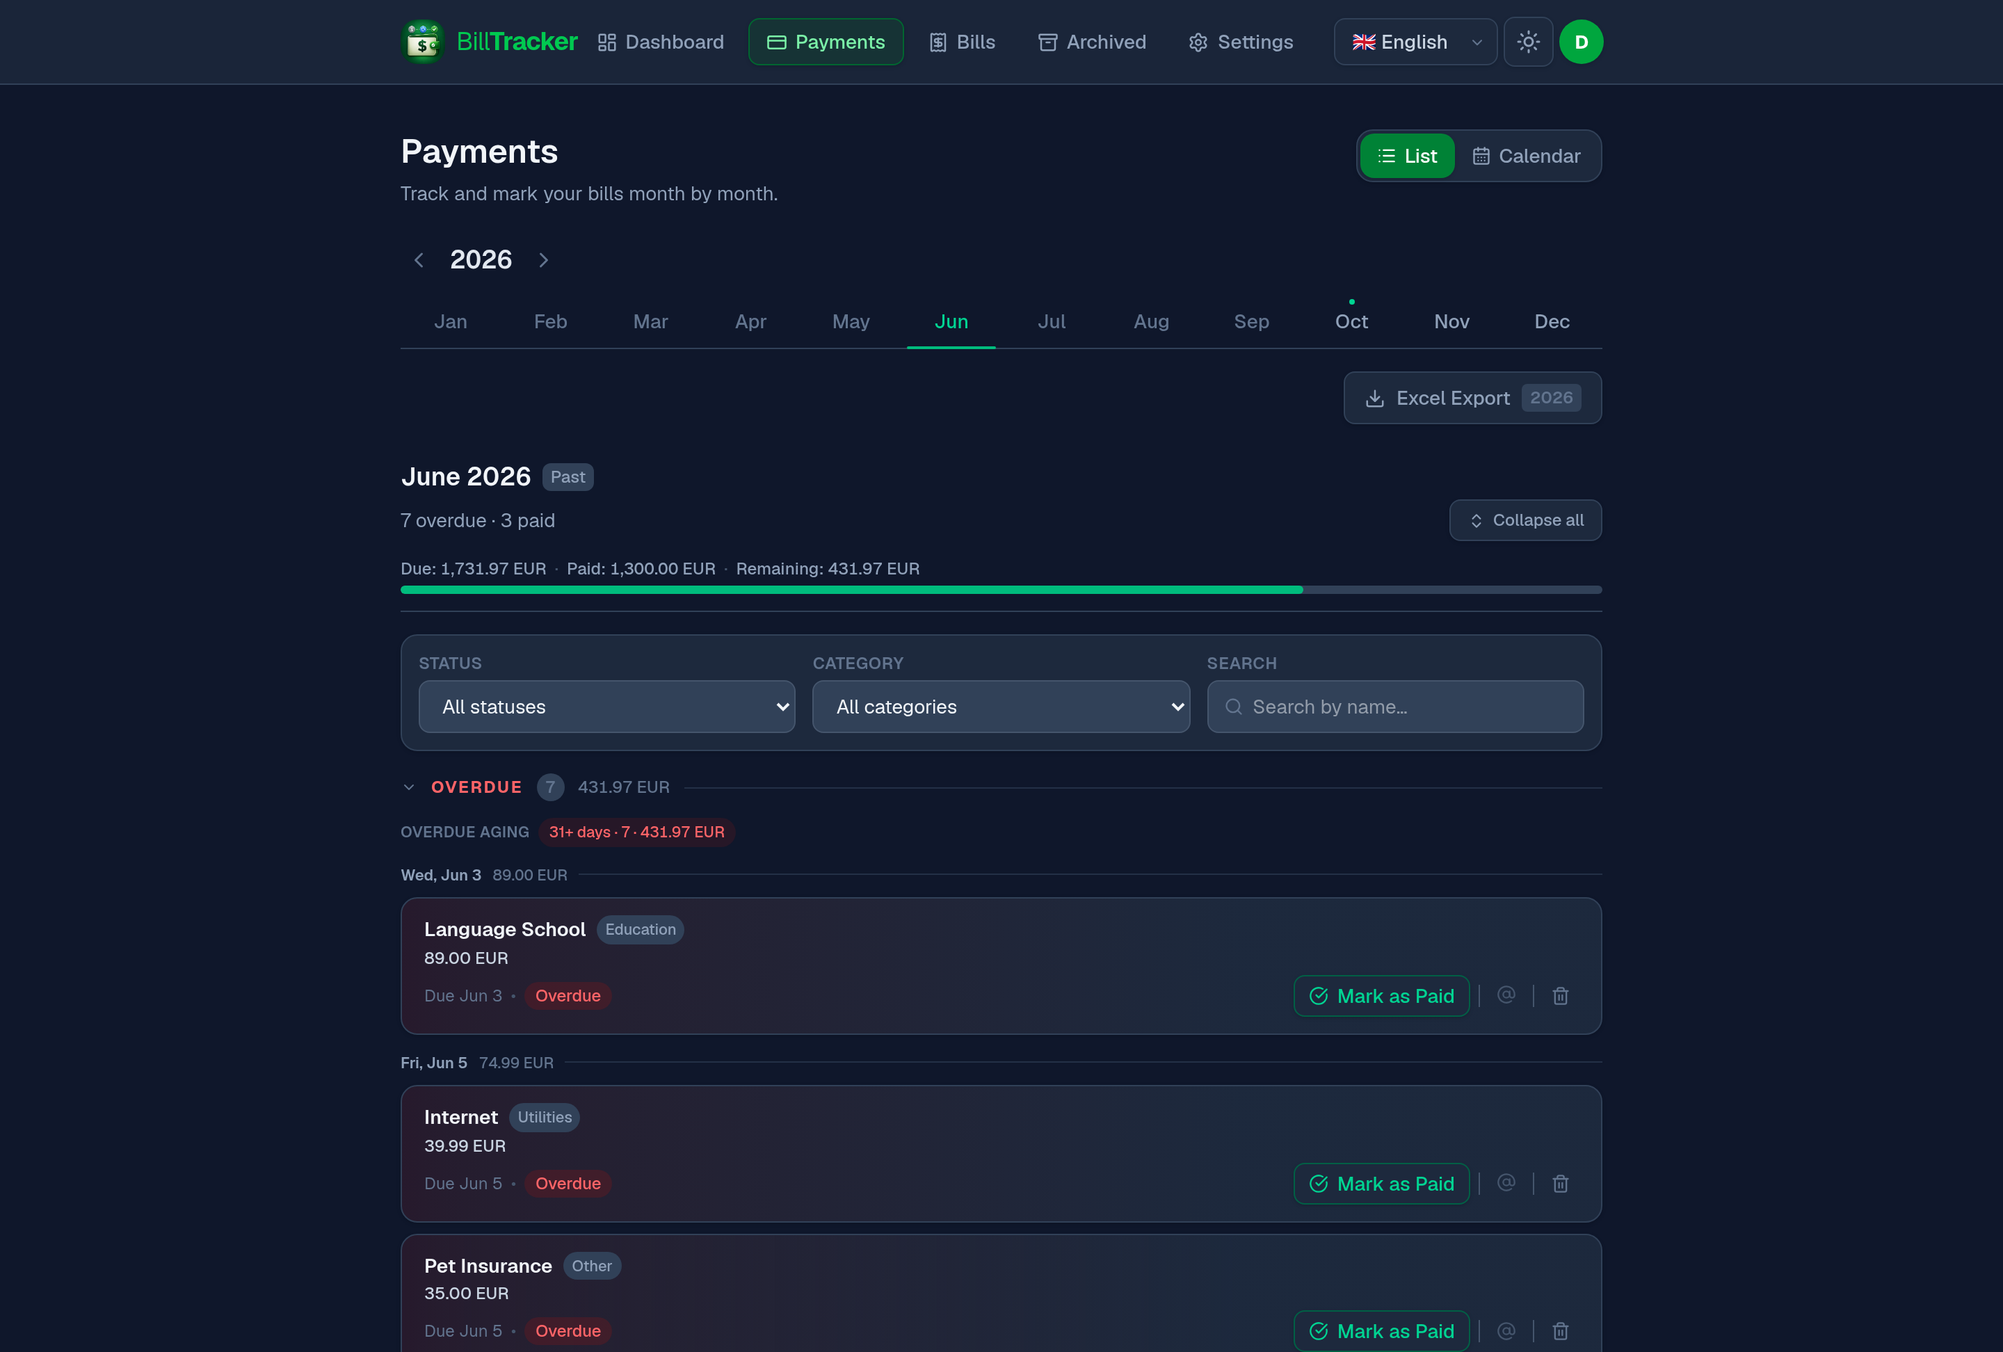
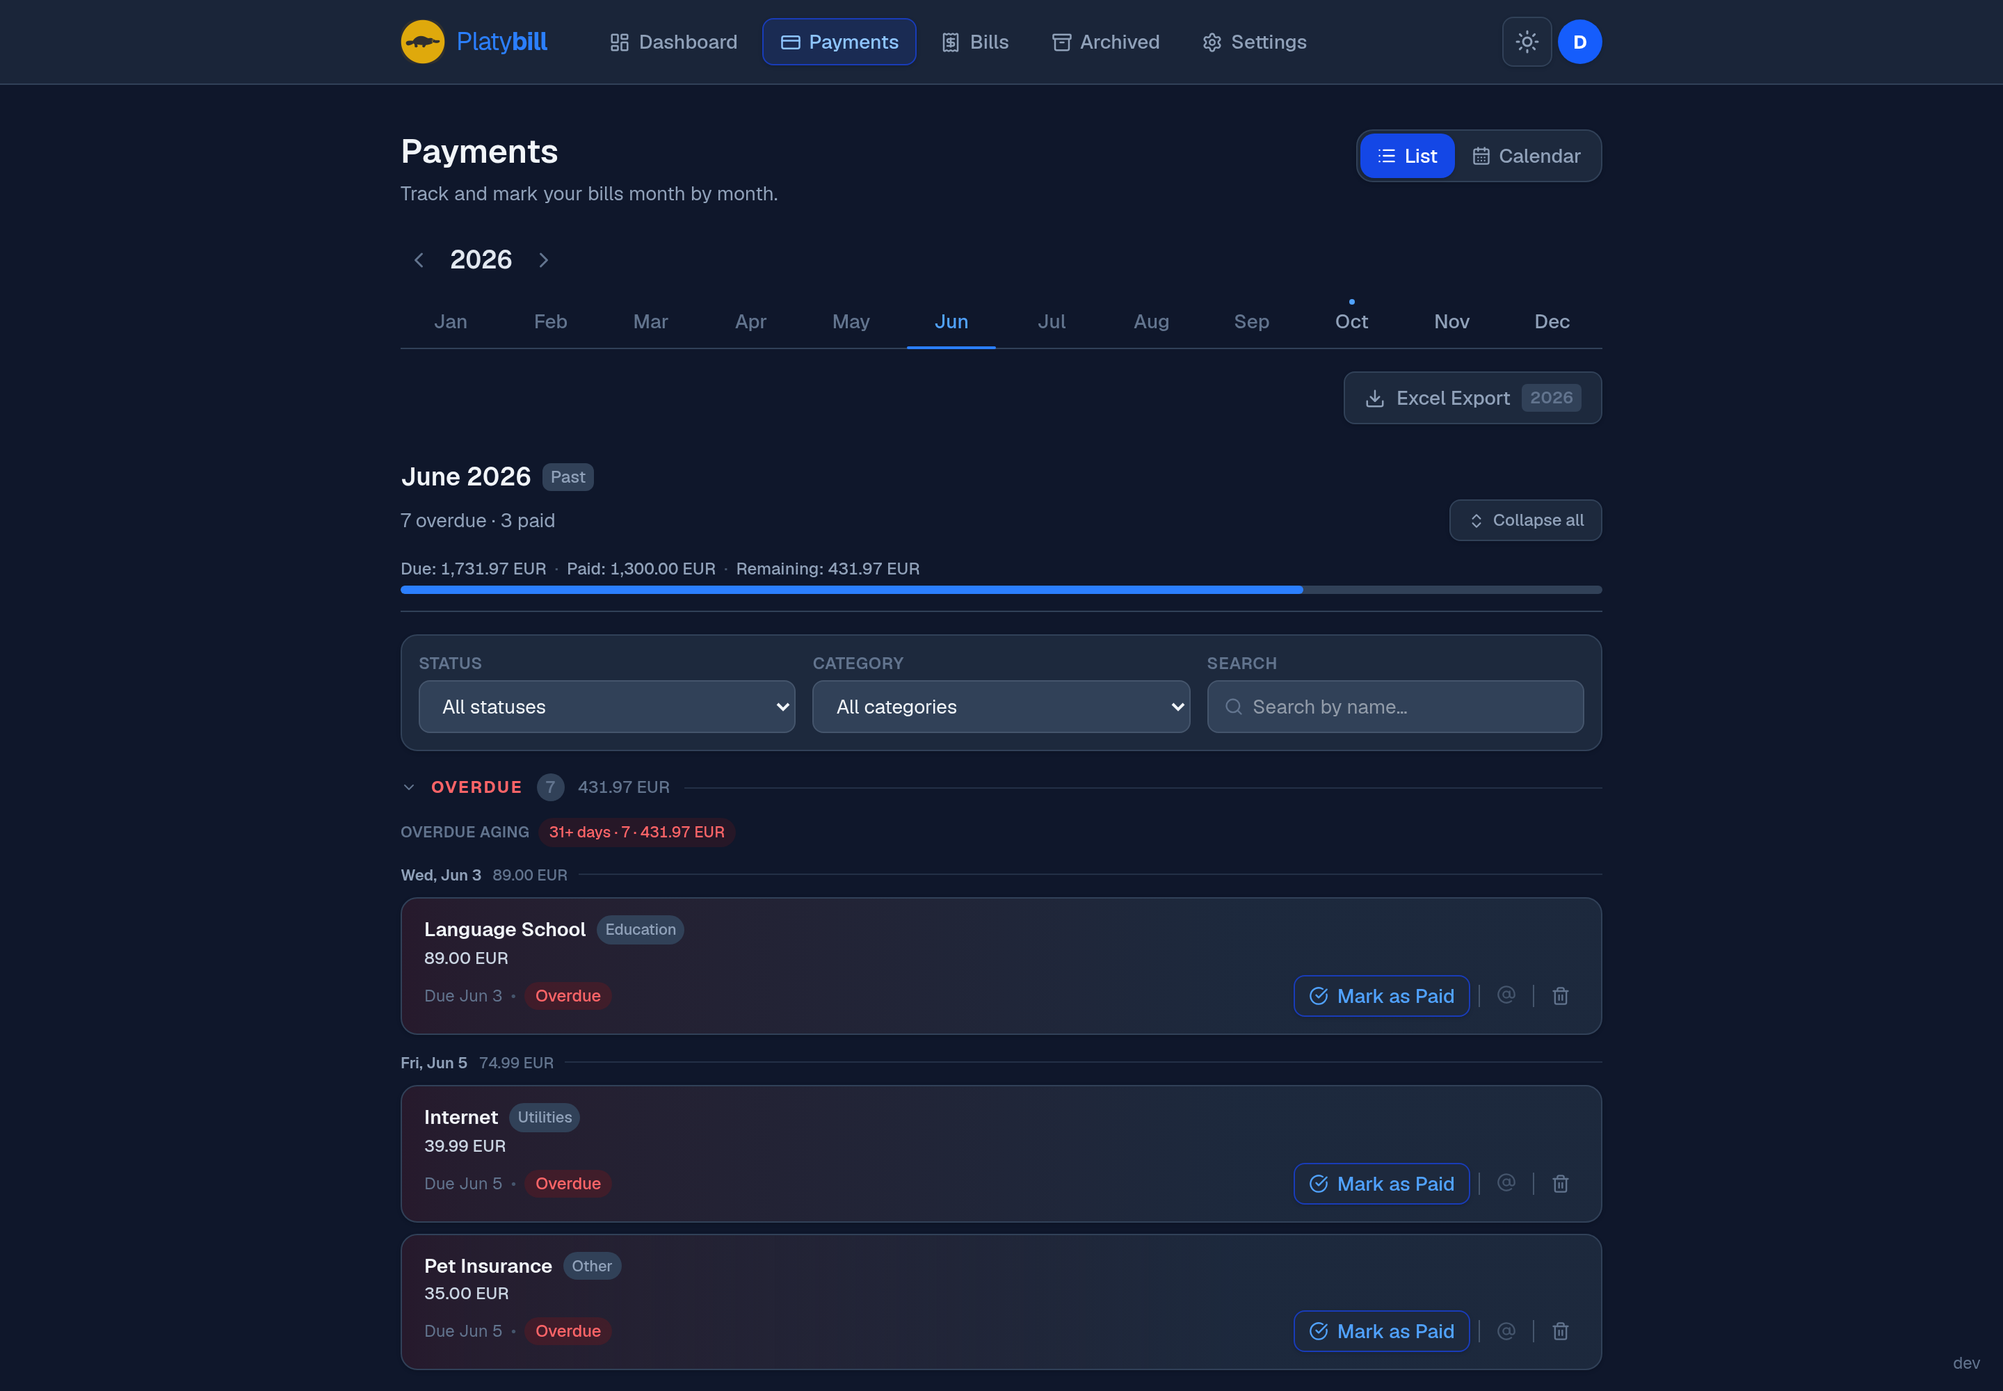
docs: refresh screenshots, PRD and archive the v4.0.0 change
- regenerate README screenshots on the dark/blue UI with the platypus mark
- PRD localisation section reflects the English-only launch
- roadmap lists v4.0.0 as shipped; change archived with a summary

diff --git a/context/archive/2026-10-10-platybill-sqlite-container/plan.md b/context/archive/2026-10-10-platybill-sqlite-container/plan.md
@@ -1,0 +1,80 @@
+# Platybill — SQLite + single container + commit builds + Unraid CA
+
+## Frozen decisions
+
+- Product/repo renamed to **Platybill** (mascot: platypus). GitHub repo `mjc668/platybill`, local folder `~/projects/platybill`.
+- **SQLite only** — no Postgres support. Single file at `/data/platybill.db`, WAL, FKs on.
+- **One all-in-one container**: Next standalone + uvicorn under supervisord. `/api/*` is reverse-proxied by Next rewrites to `127.0.0.1:8010`. One published port (3010), one volume (`/data`).
+- **Unraid runtime model**: PUID/PGID entrypoint (defaults 99/100 when root; compose runs as `user: 10001:10001` and the entrypoint skips privilege handling), JWT_SECRET auto-generated and persisted in `/data` when unset (env wins), `TZ` honored (tzdata installed).
+- **Builds from commits**: no GitHub Releases, no version-sync commits. On green `main`: `sha-<7>`, `main`, `latest`. Env var `PLATYBILL_TAG` (default `latest`). UI footer shows the commit SHA.
+- **Unraid CA**: files prepared (`ca_profile.xml`, `templates/platybill.xml`, icons) but **not submitted** until the user has tested the container. User actions: GHCR package public, forum support thread, submission.
+- Existing deployment migrates Postgres → SQLite via `scripts/migrate_postgres_to_sqlite.py` (all rows, original IDs). Keep old `JWT_SECRET` to preserve browser sessions.
+
+## Backend — SQLite
+
+1. `app/core/types.py`
+   - `UTCDateTime(TypeDecorator)`: bind → UTC (naive stored), result → aware UTC.
+   - `Money(TypeDecorator)`: `impl = BigInteger`, Decimal ↔ integer cents, quantize 2dp. SQL aggregates inherit the column type (`func.sum` uses `ReturnTypeFromArgs`), so `sum`/`coalesce`/`case` keep returning `Decimal`.
+2. Models: swap `DateTime(timezone=True)` → `UTCDateTime`, `Numeric(12,2)` → `Money` (bill, payment, user, reset_token, restore_snapshot, category). Booleans: `server_default=sa.text("0"/"1")`; drop the `"null"` default on `users.monthly_summary_last_sent`. (`sqlalchemy.UUID` and `JSON` are SQLite-compatible already.)
+3. `app/core/database.py`: sqlite branch — `connect_args={"check_same_thread": False}`, PRAGMAs `journal_mode=WAL`, `foreign_keys=ON`, `busy_timeout=5000`, `synchronous=NORMAL`; no pool_size/max_overflow for sqlite.
+4. `app/core/config.py`: default `database_url = "sqlite:////data/platybill.db"`.
+5. `app/services/stats.py`: `greatest(x, 0)` → `case((x > 0, x), else_=0)` (×3); `to_char(paid_on, 'YYYY-MM')` → `func.strftime('%Y-%m', Payment.paid_on)` (×2). `with_for_update()` in `auth.py` is silently omitted by SQLite — leave (single-writer serialization covers it).
+6. Migration squash: delete `backend/alembic/versions/*`, generate one baseline against an empty SQLite DB, hand-review against models; `alembic/env.py` adds `render_as_batch=True`. Pre-4.0 Postgres DBs migrate via ETL, not Alembic.
+7. Tests: `conftest.py` → session-scoped temp-file SQLite engine (`tmp_path_factory`), keep `create_all`/fixtures (rename `postgres_engine` → `sqlite_engine`); `pyproject.toml` drops `testcontainers` and runtime `psycopg2` (keep `psycopg2-binary` in dev for the ETL).
+8. ETL `backend/scripts/migrate_postgres_to_sqlite.py`: `--source postgresql://… --target ./platybill.db`; `alembic upgrade head` on target, refuse non-empty DB, copy users (id, email, password_hash, token_version, prefs, timestamps), categories, bill_templates, payment_instances (incl. soft-deletes), payments, restore_snapshots, password_reset_tokens with original IDs; per-table count + `SUM(amount)` reconciliation; abort on mismatch.
+
+## Container
+
+- Root `Dockerfile`: stage 1 `node:22-bookworm-slim` builds frontend (`NEXT_PUBLIC_APP_VERSION` build arg); stage 2 `python:3.13-slim` + uv syncs backend venv; runtime copies venv + standalone frontend + `node` binary, installs `tzdata` + supervisor, non-root user `appuser` (10001).
+- `docker/entrypoint.sh`: ensure `/data`; if root → apply PUID/PGID, chown `/data`, prepare/write `jwt_secret`, pre-migration `sqlite3.Connection.backup()` to `/data/backups/pre-upgrade-<ts>.db` (keep last 10), run `alembic upgrade head` as appuser, start supervisord (programs `user=appuser`); if non-root → same minus privilege bits. `HEALTHCHECK` on `127.0.0.1:3010`.
+- `docker/supervisord.conf`: `uvicorn app.main:app --host 127.0.0.1 --port 8010` (cwd `/backend`) + `node server.js` (`HOSTNAME=0.0.0.0 PORT=3010`, cwd `/frontend`).
+- `frontend/next.config.ts`: `rewrites()` `/api/:path*` → `http://127.0.0.1:8010/:path*` (baked; backend always local in-container). `frontend/src/proxy.ts`: exclude `api/` from the matcher so API calls bypass auth-routing/CSP.
+- Compose: dev `docker-compose.yml` builds locally; prod `docker-compose.prod.yml` uses `ghcr.io/mjc668/platybill:${PLATYBILL_TAG:-latest}`; one `app` service (`user: 10001:10001`, cap_drop ALL, no-new-privileges), `platybill_data:/data`, port 3010 (dev all interfaces, prod 127.0.0.1). `demo` profile uses the same image with `entrypoint: /backend/.venv/bin/python /app/demo/seed.py`, `SEED_BASE_URL=http://app:3010/api`; `demo/seed.py` switches `requests` → `httpx`.
+- `infra/backup.sh`: SQLite backup via `docker compose exec` python + `docker compose cp`, gzip, retention.
+
+## CI / builds from commits
+
+- Delete `.github/workflows/release.yml`.
+- `ci.yml`: keep frontend/backend/docker-e2e; backend no longer needs Docker; e2e `E2E_API_URL=http://localhost:3010/api` (and compose up of the single service). Add publish job on `push` to `main`, `needs: [frontend, backend, docker-e2e]`: native matrix amd64 (`ubuntu-latest`) + arm64 (`ubuntu-24.04-arm`), push by digest, merge manifest with tags `sha-<7>`, `main`, `latest`; GHA cache; concurrency cancel per ref; OCI revision/source labels; `workflow_dispatch`.
+- Version fields become static cosmetic (`0.0.0`); remove version-sync job and release references. Footer (`AppFooter.tsx`) shows `NEXT_PUBLIC_APP_VERSION` = `sha-<short>` in CI, `dev` locally.
+
+## Unraid CA (prepare only, do not submit)
+
+- Root `ca_profile.xml` (`<Profile>`, `<Icon>`, `<WebPage>`), `templates/platybill.xml` (`<Repository>ghcr.io/mjc668/platybill:latest`, `<WebUI>http://[IP]:[PORT:3010]`, Config: WebUI port 3010, `/data` → `/mnt/user/appdata/platybill`, PUID=99/PGID=100, TZ, ENVIRONMENT=production, COOKIE_SECURE, APP_BASE_URL, TRUST_PROXY=true, JWT_SECRET (masked, optional), APPRISE_*, SMTP_*; `<Category>Productivity</Category>`, `<ExtraParams>--restart=unless-stopped</ExtraParams>`, `<MinVer>6.12`, MIT license, `<DefaultTagDescription>Rolling builds from main</DefaultTagDescription>`).
+- `icon.png` (128×128) + `icon.svg` — wombat mark; README Unraid/CA install section.
+- User prerequisites later: GHCR package public, forum support thread, submit at ca.unraid.net.
+
+## Rebrand sweep
+
+`Bill Tracker` → `Platybill` across frontend i18n (en/pl/de), metadata/manifest, emails, README/docs, `AGENTS.md`, `infrastructure.md`, `.env.example`, LICENSE modification line, image/env references (`BILL_TRACKER_*` → `PLATYBILL_*`). Upstream Pay Tracker credit stays.
+
+## Verification
+
+```
+cd backend && nix shell nixpkgs#python313 -c bash -c 'export UV_PYTHON=python3.13; nix run nixpkgs#uv -- run black --check --target-version py313 .; nix run nixpkgs#uv -- run mypy app; nix run nixpkgs#uv -- run pytest tests/ -q'
+cd frontend && nix shell nixpkgs#nodejs_22 -c bash -c 'npm run lint; npm run build; npx tsc --noEmit -p tests/e2e/tsconfig.json'
+```
+Container: build image, run with a bind mount, register → bill → payment → backup/restore, upgrade path with the ETL against a temp Postgres.
+
+## Out of scope
+
+- CA submission (user tests first).
+- Digest pinning of base images, GHCR cleanup of old `pay-tracker-*`/`bill-tracker-*` packages.
+- Web Push.
+
+## Status (implementation notes)
+
+- Repo/product renamed to Platybill; JWT issuer/audience changed to `platybill*` (users sign in once after migrating).
+- Supervisord config is generated by `docker/entrypoint.sh` (no static file) to support both root/PUID and non-root compose modes; renames base images fully-qualified for podman compatibility.
+- Boolean `server_default`s are `text("0"/"1")`; a `GUID` type decorator replaced `sqlalchemy.UUID` (SQLite reflected it as NUMERIC and broke `alembic check`).
+- `stats.py` uses `type_coerce(..., Money)` for `remaining` because TypeDecorator arithmetic delegates to the impl and loses the cents result processor.
+- ETL verified end-to-end (podman postgres:17 at the old head `b9c0d1e2f3a4`, seeded edge cases, exact count/sum reconciliation, Decimal/aware-datetime/UUID round-trip).
+- Container verified end-to-end (root+PUID 99/100 and non-root 10001 paths, register/bill/sync/stats through the Next `/api` rewrite, demo seeder via httpx).
+- CA files (`ca_profile.xml`, `templates/platybill.xml`, `icon.png`) are prepared but not submitted; forum support thread + public GHCR package still pending.
+- Local `.env` was migrated (Postgres vars removed, `PLATYBILL_TAG`/`TRUST_PROXY` added); a backup copy ` .env.bak-*` was kept.
+- Final-tree re-verification (after the last rebrand edits): full check suite green (black/mypy/574 pytest, eslint/build/e2e tsc), image rebuilt from the current tree, non-root container smoke passed through the Next `/api` rewrite (register → bill → sync → partial pay → mark paid → stats → export → restore → logout) and restart produced a valid `pre-upgrade-*.db` snapshot with idempotent Alembic at `4fc2c1940c54`.
+- Branding settled on **Platybill**: first pass was Hearthbill/wombat, then Wombill, then Platybill; the final mark is a traced swimming platypus (accentuated bill) rendered to all icon sizes, with a light-theme variant (yellow disc, no tile) swapped via the `dark` class.
+- UI refresh: green/emerald accents replaced with the blue scale, dark theme by default (toggle retained), language switcher and pl/de messages removed — UI is English-only for now (backend email languages untouched).
+- e2e re-verified locally on NixOS: 24/24 green. Fixed two latent issues in `frontend/playwright.config.ts` — the stale `webServer` command still listed the removed postgres/backend/frontend services (now `app demo-data` via `-f ../docker-compose.yml`), and the PWA service worker bypassed `page.route` mocks once active (now `serviceWorkers: 'block'`). Added a `PLAYWRIGHT_CHROMIUM_PATH` override for FHS-less systems.
+- Security audit finding: with `TRUST_PROXY=true` and the container port exposed directly, a client-supplied `X-Forwarded-For` is forwarded unchanged by Next (`??=`), so spoofed values bypassed IP rate limits (verified against a live container). `TRUST_PROXY` now defaults to `false` everywhere (.env.example, CA template), docs explain it is only safe behind a proxy that appends the real address, and SECURITY.md gained a deployment-hardening section.
+

diff --git a/context/foundation/roadmap.md b/context/foundation/roadmap.md
@@ -424,16 +424,17 @@ Shipped after the planned slices completed. Each maps to an archived change fold
 | v3.0.0 | rename-and-hardening | Pay Tracker renamed to Bill Tracker (now Platybill); cookie-only auth (HttpOnly), JWT issuer/audience change; backend/frontend images split | — |
 | v3.1.0 | unarchive-bills | Unarchiving a bill resumes it from the next due date without backfilling earlier periods | — |
 | v3.1.1 | unarchive-fix | Unarchive seeds the current period, not just future dates | — |
+| v4.0.0 | platybill-sqlite-container | Rename to **Platybill** with a traced platypus mark (light/dark theme variants); one all-in-one image (Next standalone + uvicorn under supervisord, `/api/*` proxied same-origin); PostgreSQL 17 replaced by **SQLite** at `/data/platybill.db` (WAL); PUID/PGID + auto-persisted JWT secret for Unraid; images published per green `main` commit (`sha-<7>`, `main`, `latest`); release workflow deleted, version-sync commits removed (footer shows the commit); UI accents blue, dark theme by default, English-only for now; Unraid CA template prepared; one-off Postgres→SQLite ETL at `backend/scripts/migrate_postgres_to_sqlite.py` | `context/archive/2026-10-10-platybill-sqlite-container/` |
 
 ## Current change (in flight)
 
-- **v4.0.0 — platybill-sqlite-container**: rename to **Platybill** (mascot: wombat); one all-in-one image (Next standalone + uvicorn under supervisord, `/api/*` proxied same-origin); PostgreSQL 17 replaced by **SQLite** at `/data/platybill.db` (WAL); PUID/PGID + auto-persisted JWT secret for Unraid; images published per green `main` commit (`sha-<7>`, `main`, `latest`); CI release workflow deleted, version-sync commits removed (footer shows the commit); Unraid Community Applications template prepared but **not submitted** until the maintainer has tested the container; one-off Postgres→SQLite ETL at `backend/scripts/migrate_postgres_to_sqlite.py`. Plan: `context/changes/platybill-sqlite-container/plan.md`.
+None.
 
 ## Next up
 
 Operational follow-ups (not code slices):
 
-- **Test the Platybill container, then submit to the Unraid CA catalogue.** Template `templates/platybill.xml` and profile `ca_profile.xml` are prepared; submission is intentionally pending until the maintainer has run the container (register → bill → payment → reminder → backup/restore). Prerequisites: GHCR package public, forum support thread.
+- **Publish and submit.** Push `main` so CI publishes `ghcr.io/mjc668/platybill` (`sha-<7>`/`main`/`latest`), make the GHCR package public, test-install on Unraid from `templates/platybill.xml`, then open the forum support thread and submit to the CA catalogue.
 - **Migrate the live Postgres deployment to SQLite.** Run `backend/scripts/migrate_postgres_to_sqlite.py` against the 3.1.x database (source must be at alembic head `b9c0d1e2f3a4`), copy the resulting `platybill.db` into `/data`, and restart. Expect one forced sign-in (JWT issuer/audience renamed to `platybill*`). See README § Migrating from the Postgres deployment.
 - **Install apprise-go, configure it, and connect it to Platybill.**
   1. **Install** apprise-go on the host (container or binary). It is CLI-only with no HTTP server, so it needs a small HTTP wrapper for Platybill to call — or run `caronc/apprise` / `lscr.io/linuxserver/apprise-api` as the gateway instead.

diff --git a/context/archive/2026-10-10-platybill-sqlite-container/change.md b/context/archive/2026-10-10-platybill-sqlite-container/change.md
@@ -1,0 +1,35 @@
+---
+change_id: platybill-sqlite-container
+title: Platybill — SQLite, single container, commit builds, platypus rebrand
+status: archived
+created: 2026-10-08
+updated: 2026-10-10
+archived_at: 2026-10-10T00:00:00Z
+---
+
+## Notes
+
+Replaced the split Postgres + backend + frontend stack with one all-in-one image:
+Next standalone and uvicorn run under supervisord, the browser hits `/api/*`
+same-origin and Next rewrites it to `127.0.0.1:8010`, and all state lives in a
+single SQLite file at `/data/platybill.db` (WAL, foreign keys on). A PUID/PGID
+entrypoint persists the JWT secret, takes a pre-migration SQLite snapshot into
+`/data/backups`, runs `alembic upgrade head`, and starts both processes; builds
+publish per green `main` commit (`sha-<7>`, `main`, `latest`) instead of
+versioned releases.
+
+The product was rebranded to **Platybill** with a hand-traced platypus mark
+(light/dark theme variants), blue UI accents, dark by default, and an
+English-only UI for launch. An ETL script
+(`backend/scripts/migrate_postgres_to_sqlite.py`) migrates 3.1.x Postgres
+databases with original IDs and count/sum reconciliation.
+
+Verification: black/mypy/574 pytest, eslint/build/e2e tsc, 24/24 Playwright
+e2e against the container, ETL round-trip against postgres:17 at the old head,
+root+PUID and non-root container paths, pre-migration backup on restart. The
+Unraid CA template and profile are prepared; submission follows the first
+published image and a test install.
+
+Security audit during closure found that `TRUST_PROXY=true` on a directly
+exposed port let clients spoof `X-Forwarded-For` and bypass rate limits; the
+default is now `false` with docs and a SECURITY.md hardening section.

diff --git a/context/foundation/prd.md b/context/foundation/prd.md
@@ -200,15 +200,15 @@ household finance manager does not need to check the dashboard proactively.
 
 ### Localisation
 
-- FR-016: UI is available in English and Polish. The user can switch language via a toggle
-  in the UI. Priority: must-have
-  > Socratic: Two languages cover the primary household (Polish-speaking) and English as
-  > universal fallback. Additional locales deferred to v2.
+- FR-016: The UI ships in English only for the Platybill launch; the language switcher and
+  the Polish/German translations are stripped for now. Priority: could-have (deferred)
+  > Socratic: The 3.1.x line shipped en/pl/de; keeping one locale during the SQLite +
+  > rebrand relaunch cuts surface area. Backend reminder emails still carry en/pl/de
+  > templates and honor the stored per-account language preference, so existing accounts
+  > keep receiving emails in their language.
 
-- FR-017: The user's selected language is persisted per account and restored automatically
-  after login. Priority: must-have
-  > Socratic: Without persistence the user must re-select the language on every session,
-  > which contradicts the "household-first" convenience goal.
+- FR-017: (deferred with FR-016) The UI language switcher and per-account locale
+  persistence return when translations are reintroduced.
 
 ## Non-Functional Requirements
 
